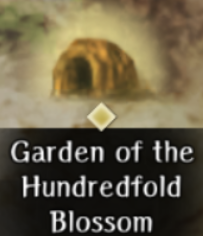
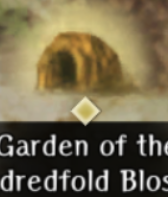
1816

diff --git a/src/main.py b/src/main.py
@@ -1,7 +1,7 @@
 from gui import *
 import argparse
 
-__version__ = '1.8.15' 
+__version__ = '1.8.16' 
 OWNER = "arnold2957"
 REPO = "wvd"
 

diff --git a/CHANGES_LOG.md b/CHANGES_LOG.md
@@ -1,9 +1,13 @@
 **新版本!**
+==v1.8.16==
+修复: 修改了百花之庭和鸟洞的识别图片, 以可以正确识别这两个地下城.
+
 ==v1.8.15==
 新增: 刷取悬赏点数. 由[@请问您今天要来点百智睡法吗？]制作. 注意, 刷取悬赏点数需要至少7级悬赏, 同时解锁第三章的人偶节点(同样, 你可以将人偶节点修改为凯旋).
 修复: 现在不会立刻关闭adb, 只有在尝试链接失败后才会关闭adb.
 
 **已知问题**
+加入豪华房.
 
 开箱快结束的时候遇到善恶怪物卡死.
 配置自定义序列的面板.
